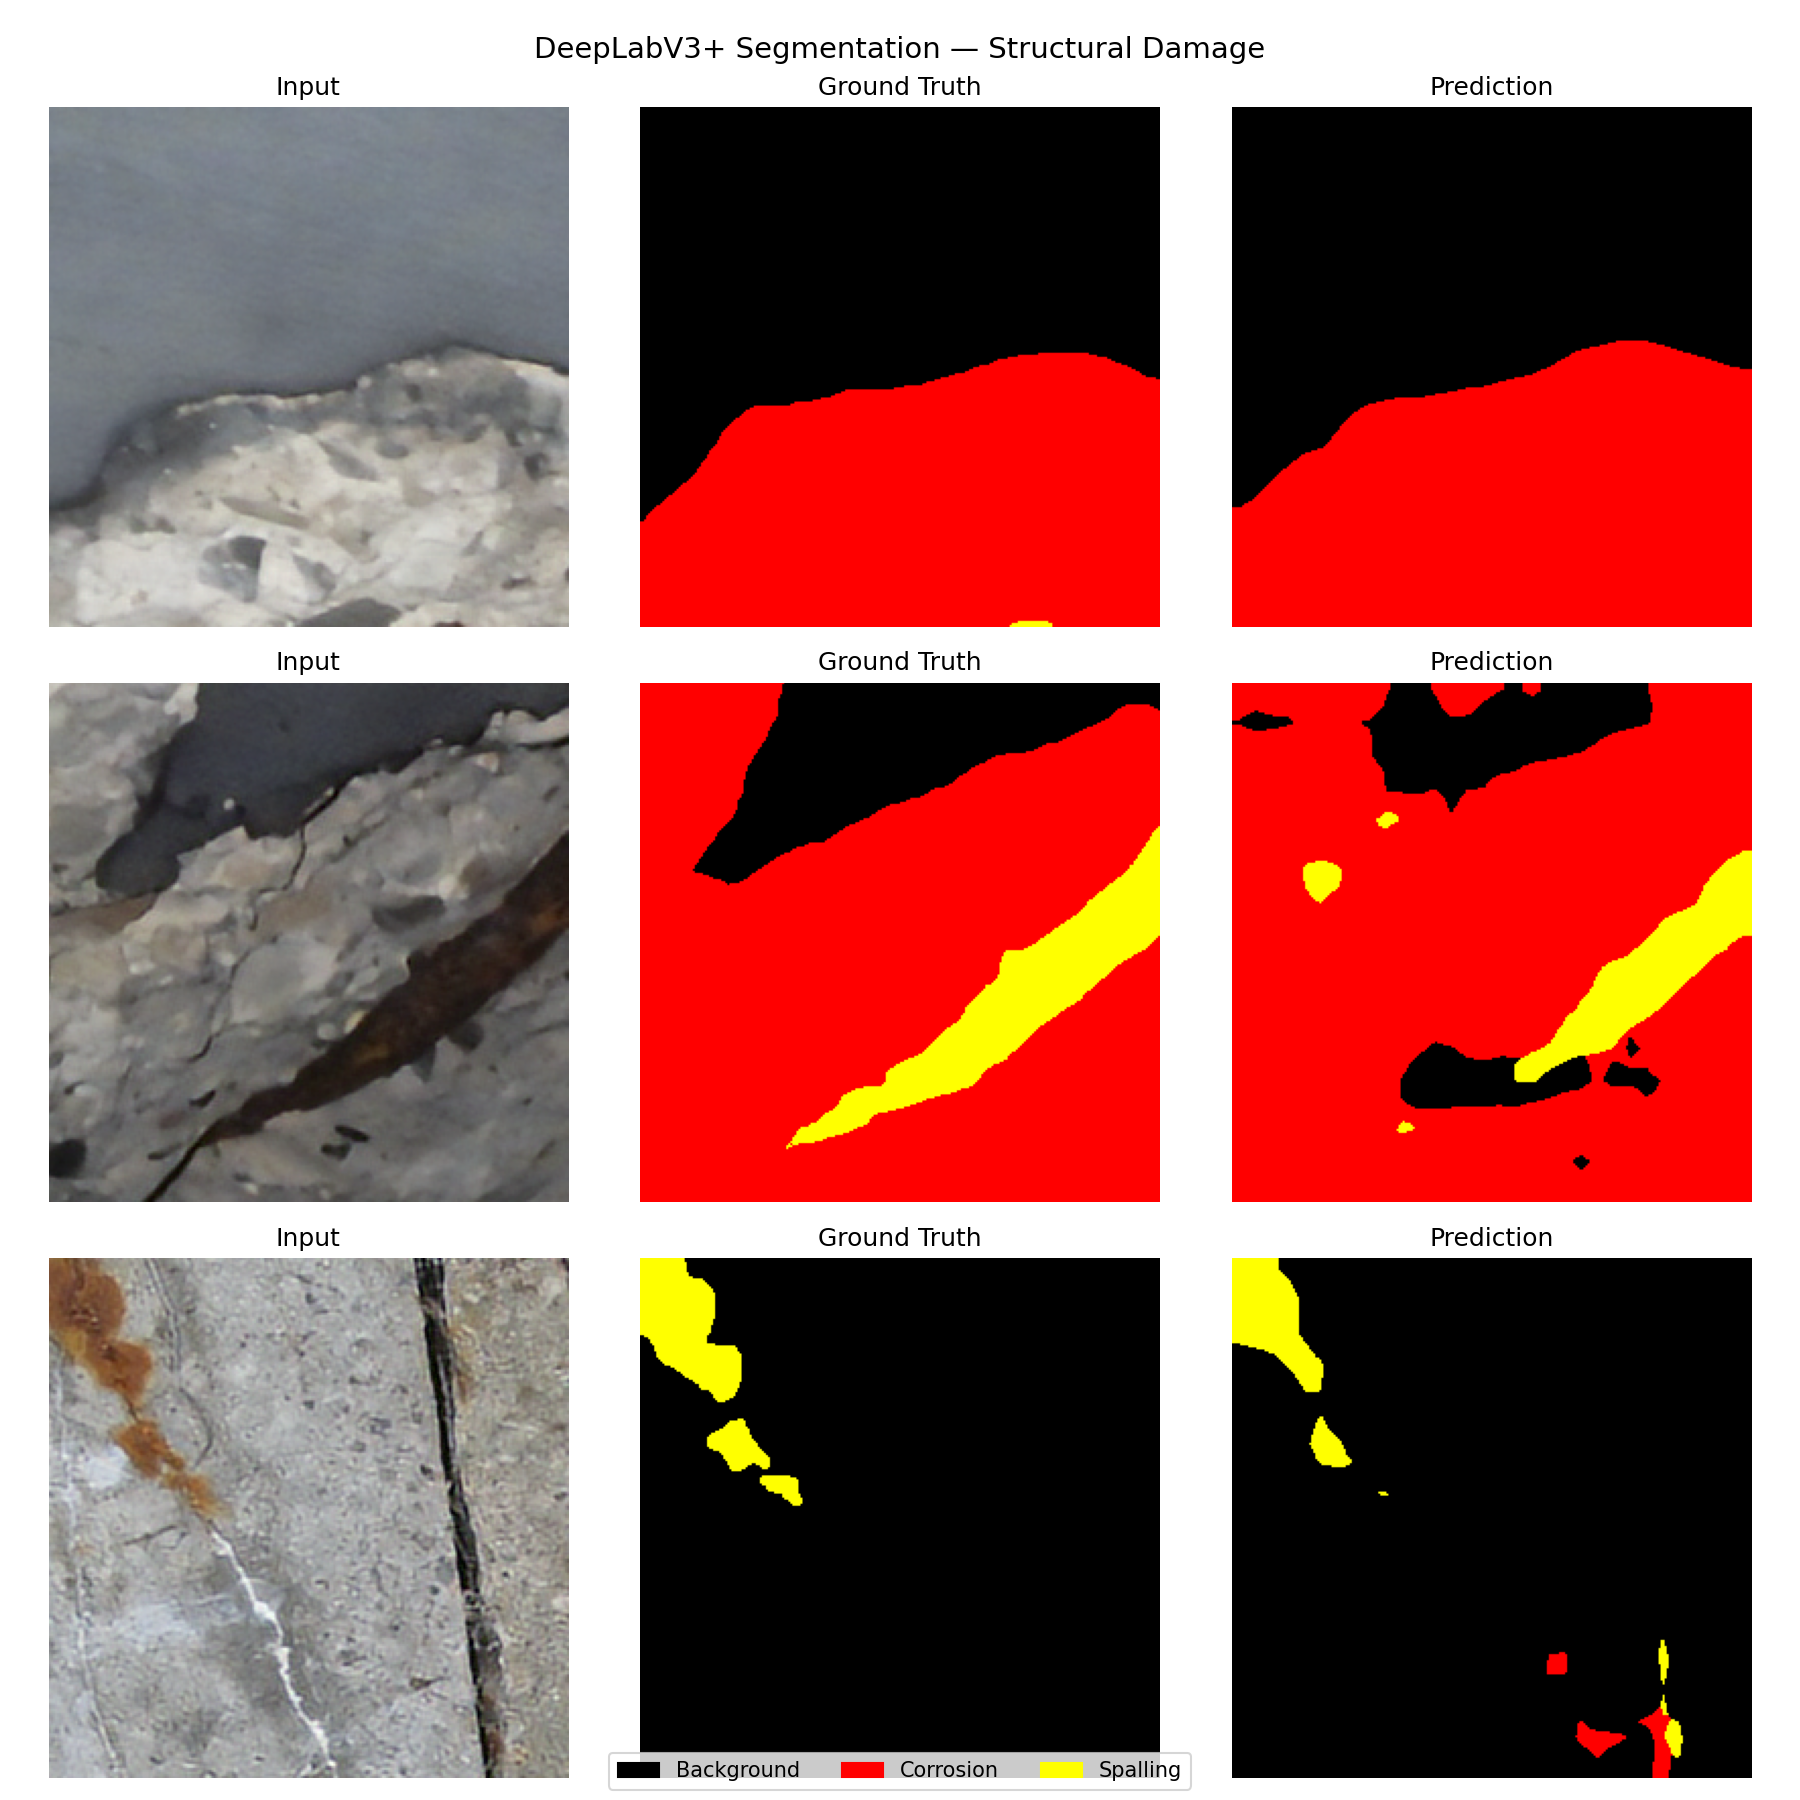
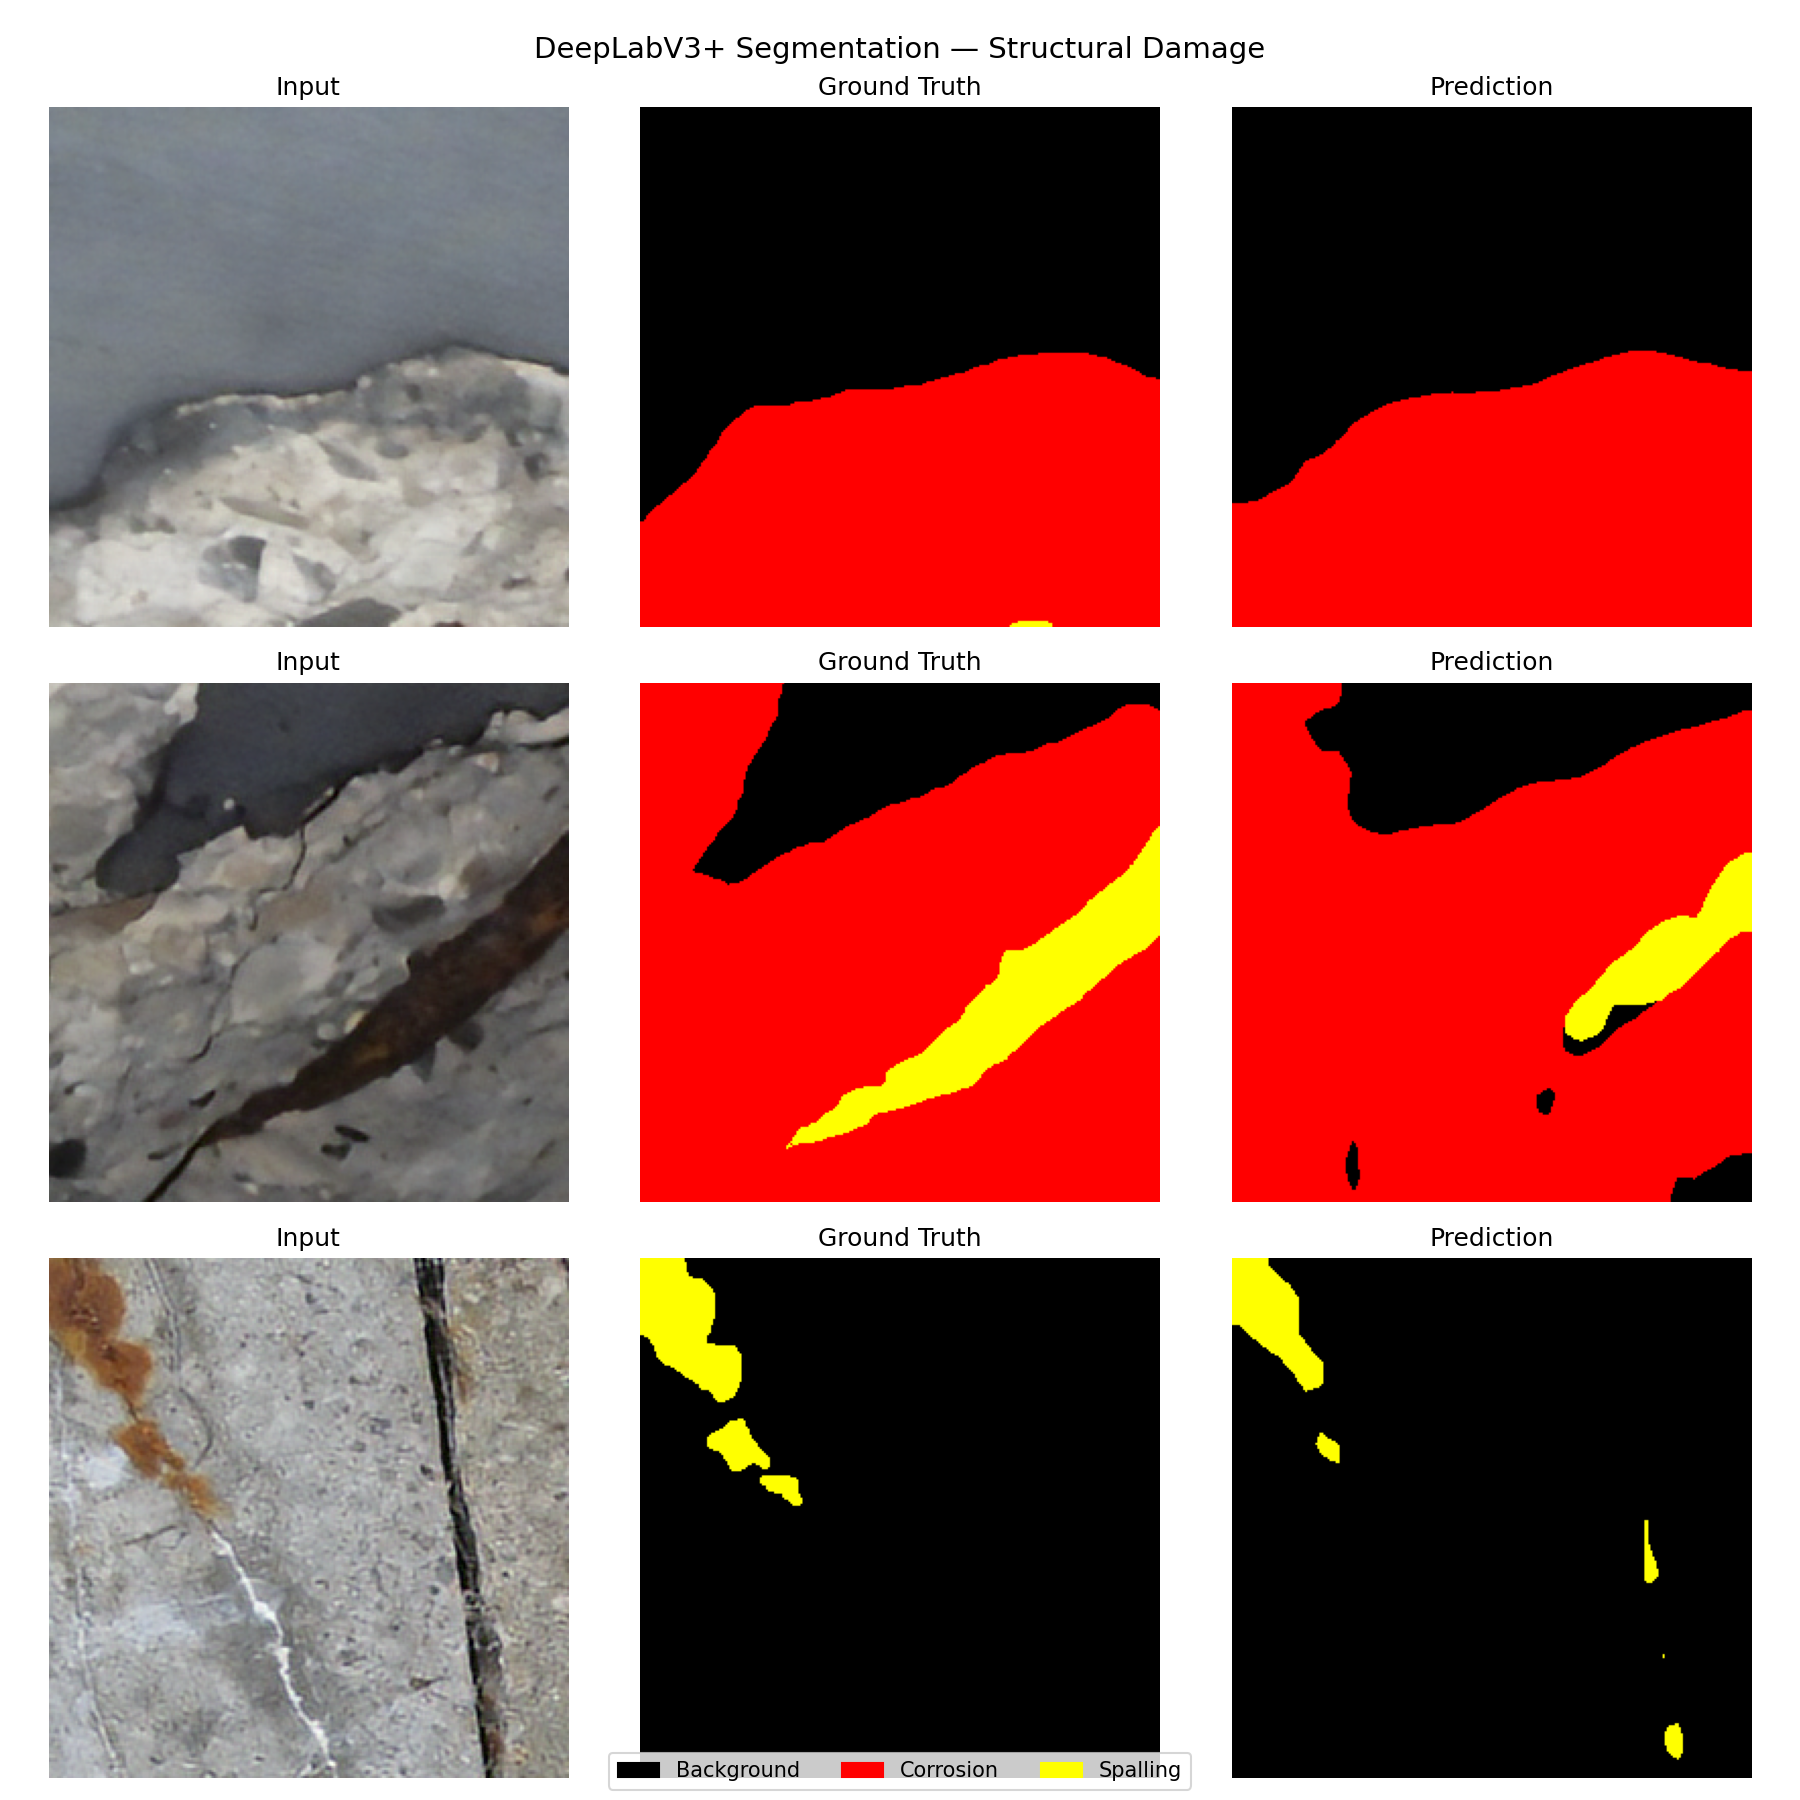
Final: mIoU 0.7317 with layer3+4 unfrozen - all shortcomings resolved

diff --git a/train_segmentation.py b/train_segmentation.py
@@ -1,19 +1,17 @@
 """
 Stage 2: Semantic Segmentation for Structural Damage
-DeepLabV3+ with ResNet50 backbone
-Classes: 0=background, 1=corrosion, 2=spalling
+DeepLabV3+ with ResNet50 backbone - Layer3+4 unfrozen
 Author: Seyed Farhad Abtahi
 """
 
 import os
 import time
-import copy
 import json
 import torch
 import torch.nn as nn
 import torch.optim as optim
 from torch.utils.data import Dataset, DataLoader
-from torchvision import models, transforms
+from torchvision import transforms
 from torchvision.models.segmentation import deeplabv3_resnet50
 import numpy as np
 from PIL import Image
@@ -25,11 +23,10 @@ MODEL_DIR   = "models"
 RESULTS_DIR = "results"
 NUM_CLASSES = 3
 BATCH_SIZE  = 4
-NUM_EPOCHS  = 20
-LR          = 5e-5
+NUM_EPOCHS  = 25
+LR          = 2e-5
 IMG_SIZE    = 256
 DEVICE      = torch.device("cpu")
-
 CORROSION_COLOR = (255, 0, 0)
 SPALLING_COLOR  = (255, 255, 0)
 
@@ -40,7 +37,6 @@ print("PyTorch: " + str(torch.__version__))
 class SegmentationDataset(Dataset):
     def __init__(self, split="train", img_size=256):
         self.img_size = img_size
-        self.split    = split
         self.src_dir  = os.path.join(DATA_DIR, split)
         all_files     = os.listdir(self.src_dir)
         self.images   = sorted([f for f in all_files
@@ -67,8 +63,7 @@ class SegmentationDataset(Dataset):
             transforms.Normalize([0.485, 0.456, 0.406],
                                  [0.229, 0.224, 0.225])
         ])(img)
-        mask_path = os.path.join(self.src_dir, mask_name)
-        label     = self.mask_to_label(mask_path)
+        label = self.mask_to_label(os.path.join(self.src_dir, mask_name))
         return img, label
 
 
@@ -85,7 +80,7 @@ model.aux_classifier[4] = nn.Conv2d(256, NUM_CLASSES, kernel_size=1)
 model = model.to(DEVICE)
 
 for name, param in model.named_parameters():
-    if "layer4" in name or "classifier" in name or "aux_classifier" in name:
+    if "layer3" in name or "layer4" in name or "classifier" in name or "aux_classifier" in name:
         param.requires_grad = True
     else:
         param.requires_grad = False
@@ -162,37 +157,7 @@ for epoch in range(NUM_EPOCHS):
     scheduler.step()
     print("  Epoch time: " + str(round((time.time()-t0)/60, 1)) + " min")
 
+with open(os.path.join(RESULTS_DIR, "metrics", "segmentation_history.json"), "w") as f:
+    json.dump(history, f, indent=2)
 
-print("\nGenerating visualizations...")
-model.load_state_dict(torch.load(os.path.join(MODEL_DIR, "best_deeplabv3_segmentation.pth")))
-model.eval()
-
-COLOR_MAP   = {0: (0,0,0), 1: (255,0,0), 2: (255,255,0)}
-CLASS_NAMES = ["Background", "Corrosion", "Spalling"]
-
-fig, axes      = plt.subplots(3, 3, figsize=(12, 12))
-sample_dataset = SegmentationDataset("val", IMG_SIZE)
-
-with torch.no_grad():
-    for i in range(3):
-        img_tensor, true_mask = sample_dataset[i * 10]
-        output    = model(img_tensor.unsqueeze(0).to(DEVICE))["out"]
-        pred_mask = output.argmax(dim=1).squeeze().cpu().numpy()
-
-        img_show = img_tensor.numpy().transpose(1, 2, 0)
-        img_show = (img_show * [0.229, 0.224, 0.225] + [0.485, 0.456, 0.406]).clip(0, 1)
-
-        def mask_to_rgb(mask):
-            rgb = np.zeros((*mask.shape, 3), dtype=np.uint8)
-            for cls, color in COLOR_MAP.items():
-                rgb[mask == cls] = color
-            return rgb
-
-        axes[i][0].imshow(img_show)
-        axes[i][0].set_title("Input Image")
-        axes[i][0].axis("off")
-        axes[i][1].imshow(mask_to_rgb(true_mask.numpy()))
-        axes[i][1].set_title("Ground Truth")
-        axes[i][1].axis("off")
-        axes[i][2].imshow(mask_to_rgb(pred_mask))
-        axes[i][2]
+print("Stage 2 Complete. Best mIoU: " + str(round(best_iou, 4)))
